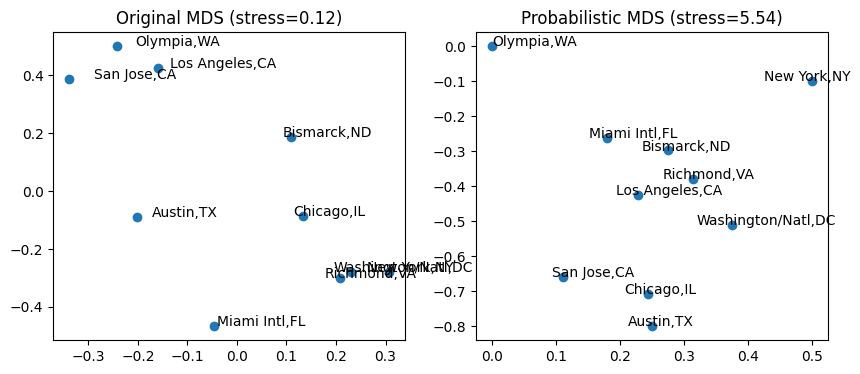
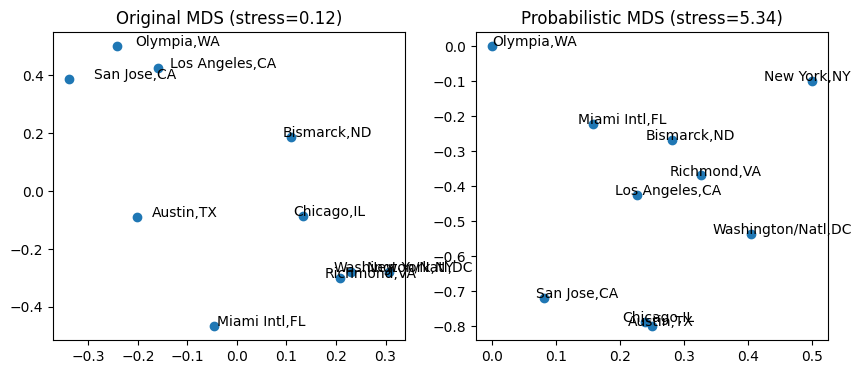
WIP large variance and fixed point

diff --git a/pmds/pmds.py b/pmds/pmds.py
@@ -15,7 +15,7 @@ from .score import stress
 
 
 EPSILON = 1e-7
-SCALE = 1e-5
+SCALE = 1e-6
 
 
 def _ncx2_log_pdf(x, df, nc):
@@ -64,6 +64,8 @@ def pmds(
     lr=1e-3,
     epochs=20,
     debug_D_squareform=None,
+    fixed_points=[],
+    init_mu=None,
 ):
     """Probabilistic MDS according to Hefner model 1958.
 
@@ -86,6 +88,10 @@ def pmds(
         learning rate for standard SGD
     epochs : int, defaults to 20
         Number of epochs
+    fixed_points: list(tuple(int, float, float)), defaults to []
+        list of fixed points (index, x, y)
+    init_mu: ndarray[float], (n_samples, n_components), defaults to None
+        initial position for the embedding
 
     Returns:
     --------
@@ -101,9 +107,19 @@ def pmds(
     print(f"[DEBUG]: using learning rate: {lr} and batch size of {batch_size}")
 
     # init mu and sigma square. Transform unconstrained sigma square `ss_unc` to `ss`.
+    # https://github.com/tensorflow/probability/issues/703
     key_m, key_s = random.split(random.PRNGKey(random_state))
-    mu = random.normal(key_m, (n_samples, n_components))
     ss_unc = random.normal(key_s, (n_samples,))
+    if init_mu is not None and init_mu.shape == (n_samples, n_components):
+        mu = jnp.array(init_mu)
+    else:
+        mu = random.normal(key_m, (n_samples, n_components))
+
+    # fixed points
+    fixed_indices = [p[0] for p in fixed_points]
+    fixed_pos = jnp.array([[p[1], p[2]] for p in fixed_points])
+    mu = jax.ops.index_update(mu, fixed_indices, fixed_pos)
+    ss_unc = jax.ops.index_update(ss_unc, fixed_indices, EPSILON)
 
     # patch pairwise distances and indices of each pairs together
     if isinstance(p_dists[0], float):
@@ -131,7 +147,7 @@ def pmds(
     all_loss = []
     for epoch in range(epochs):
         loss = 0.0
-        # note when run with fixed point, do not shuffle
+        # when using fixed points, we can always shuffle `dists_with_indices`
         for i, batch in enumerate(chunks(dists_with_indices, batch_size, shuffle=True)):
             # unpatch pairwise distances and indices of points in each pair
             dists, pair_indices = list(zip(*batch))
@@ -140,11 +156,14 @@ def pmds(
 
             # get the params for related indices from global `mu` and `ss`
             mu_i, mu_j = mu[i0], mu[i1]
-            ss_i = EPSILON + jax.nn.softplus(SCALE * ss_unc[i0])
-            ss_j = EPSILON + jax.nn.softplus(SCALE * ss_unc[i1])
+            ss_i = jnp.ones(len(i0))
+            # EPSILON + jax.nn.softplus(SCALE * ss_unc[i0])
+            ss_j = jnp.ones(len(i1))
+            # EPSILON + jax.nn.softplus(SCALE * ss_unc[i1])
             assert len(mu_i) <= batch_size
 
             # calculate loss and gradients in each batch
+            # TODO think about d_{ij} / (sigma^2_i + sigma^2_j) with very small sigma
             loss_batch, grads = loss_and_grads_batched(
                 mu_i, mu_j, ss_i, ss_j, jnp.array(dists)
             )
@@ -171,130 +190,12 @@ def pmds(
                 grads_ss * jax.nn.sigmoid(SCALE * ss_unc[related_indices]) * SCALE
             )
             # then, update the unconstrained variable ss_unc
-            ss_unc = jax.ops.index_add(
-                ss_unc, related_indices, -grads_ss_unc / batch_size
-            )
-        loss = float(loss / (i + 1))
-        mds_stress = (
-            stress(debug_D_squareform, mu) if debug_D_squareform is not None else 0.0
-        )
-        all_loss.append(loss)
-
-        mlflow.log_metric("loss", loss)
-        mlflow.log_metric("stress", mds_stress)
-        print(
-            f"[DEBUG] epoch {epoch}, loss: {loss:.2f}, stress: {mds_stress:,.2f}"
-            f" mu in [{float(jnp.min(mu)):.3f}, {float(jnp.max(mu)):.3f}], "
-            f" ss_unc in [{float(jnp.min(ss_unc)):.3f}, {float(jnp.max(ss_unc)):.3f}]"
-        )
-
-    ss = EPSILON + jax.nn.softplus(SCALE * ss_unc)
-    print("[DEBUG] mean ss: ", float(jnp.mean(ss)))
-    mlflow.log_metric("mean_ss", float(jnp.mean(ss)))
-    return mu, ss, all_loss
-
-
-def pmds_with_fixed_points(
-    p_dists,
-    n_samples,
-    n_components=2,
-    batch_size=0,
-    random_state=42,
-    lr=1e-3,
-    epochs=20,
-    debug_D_squareform=None,
-    fixed_points=[],
-):
-    assert n_components in [2, 4]
-    batch_size = batch_size or len(p_dists)
-    print(f"[DEBUG]: using learning rate: {lr} and batch size of {batch_size}")
-
-    # init mu and sigma square. Transform unconstrained sigma square `ss_unc` to `ss`.
-    key_m, key_s = random.split(random.PRNGKey(random_state))
-    mu = random.normal(key_m, (n_samples, n_components))
-    ss_unc = random.normal(key_s, (n_samples,))
-
-    # set fixed points
-    for idx, x, y in fixed_points:
-        mu = jax.ops.index_update(mu, idx, [x, y])
-        ss_unc = jax.ops.index_update(ss_unc, idx, 1e-3)
-
-    # patch pairwise distances and indices of each pairs together
-    if isinstance(p_dists[0], float):
-        all_pairs = list(combinations(range(n_samples), 2))
-        assert len(p_dists) == len(all_pairs)
-        dists_with_indices = list(zip(p_dists, all_pairs))
-    else:
-        dists_with_indices = p_dists
-
-    # function to calculate log pdf of X-square for a single input `d` given the params.
-    def loss_one_pair(mu_i, mu_j, s_i, s_j, d):
-        nc = jnp.sum((mu_i - mu_j) ** 2) / (s_i + s_j)
-        return -_ncx2_log_pdf(x=d, df=n_components, nc=nc)
-
-    # prepare the log pdf function of one sample to run in batch mode
-    loss_and_grads_batched = jax.vmap(
-        # take gradient w.r.t. the 1st, 2nd, 3rd and 4th params
-        jax.jit(jax.value_and_grad(loss_one_pair, argnums=[0, 1, 2, 3])),
-        # parallel for all input params
-        in_axes=(0, 0, 0, 0, 0),
-        # scalar output
-        out_axes=0,
-    )
-
-    all_loss = []
-    for epoch in range(epochs):
-        loss = 0.0
-        # note when run with fixed point, do not shuffle
-        for i, batch in enumerate(
-            chunks(dists_with_indices, batch_size, shuffle=False)
-        ):
-            # unpatch pairwise distances and indices of points in each pair
-            dists, pair_indices = list(zip(*batch))
-            i0, i1 = list(zip(*pair_indices))
-            i0, i1 = list(i0), list(i1)
-
-            # get the params for related indices from global `mu` and `ss`
-            mu_i, mu_j = mu[i0], mu[i1]
-            ss_i = EPSILON + jax.nn.softplus(SCALE * ss_unc[i0])
-            ss_j = EPSILON + jax.nn.softplus(SCALE * ss_unc[i1])
-            assert len(mu_i) <= batch_size
-
-            # calculate loss and gradients in each batch
-            loss_batch, grads = loss_and_grads_batched(
-                mu_i, mu_j, ss_i, ss_j, jnp.array(dists)
-            )
-
-            if jnp.any(jnp.isnan(loss_batch)):
-                raise ValueError(
-                    "NaN encountered in loss value."
-                    "Check if the `nc` params of X-square dist. are non-positive"
-                )
-            loss += jnp.mean(loss_batch)
-
-            # update gradient for the corresponding related indices
-            grads_mu = jnp.concatenate((lr * grads[0], lr * grads[1]), axis=0)
-            grads_ss = jnp.concatenate((lr * grads[2], lr * grads[3]), axis=0)
-            related_indices = i0 + i1
-            assert grads_mu.shape[0] == grads_ss.shape[0] == len(related_indices)
-
-            # update gradient for mu
-            mu = jax.ops.index_add(mu, related_indices, -grads_mu / batch_size)
-
-            # update gradient for constrained variable ss
-            # first, calculate gradient for unconstrained variable ss_unc
-            grads_ss_unc = (
-                grads_ss * jax.nn.sigmoid(SCALE * ss_unc[related_indices]) * SCALE
-            )
-            # then, update the unconstrained variable ss_unc
-            ss_unc = jax.ops.index_add(
-                ss_unc, related_indices, -grads_ss_unc / batch_size
-            )
-
-            # correct pos and gradient for fixe points
-            for idx, x, y in fixed_points:
-                mu = jax.ops.index_update(mu, idx, [x, y])
-                ss_unc = jax.ops.index_update(ss_unc, idx, 1e-3)
+            # ss_unc = jax.ops.index_add(
+            #     ss_unc, related_indices, -grads_ss_unc / batch_size
+            # )
+            # correct gradient for fixed points
+            mu = jax.ops.index_update(mu, fixed_indices, fixed_pos)
+            # ss_unc = jax.ops.index_update(ss_unc, fixed_indices, EPSILON)
 
         loss = float(loss / (i + 1))
         mds_stress = (

diff --git a/run_pmds.py b/run_pmds.py
@@ -6,7 +6,7 @@ import mlflow
 from sklearn.manifold import MDS
 from scipy.spatial.distance import squareform
 
-from pmds.pmds import pmds, pmds_with_fixed_points
+from pmds.pmds import pmds
 from pmds import score, plot, dataset, config
 
 
@@ -28,7 +28,15 @@ def run_pdms(D, N, args, labels=None):
     # Probabilistic MDS uses Squared Euclidean distances.
     D_squareform = squareform(D)
 
-    Z1, Z1_var, losses = pmds_with_fixed_points(
+    # original MDS
+    Z0 = MDS(
+        dissimilarity="precomputed",
+        metric=True,
+        random_state=args.random_state,
+        verbose=1,
+    ).fit_transform(D_squareform)
+
+    Z1, Z1_var, losses = pmds(
         p_dists,
         n_samples=N,
         n_components=args.n_components,
@@ -38,16 +46,9 @@ def run_pdms(D, N, args, labels=None):
         random_state=args.random_state,
         debug_D_squareform=D_squareform,
         fixed_points=args.fixed_points,
+        # init_mu=Z0,
     )
     plot.line(losses, out_name=f"{plot_dir}/loss.png")
-
-    # original MDS
-    Z0 = MDS(
-        dissimilarity="precomputed",
-        metric=True,
-        random_state=args.random_state,
-        verbose=1,
-    ).fit_transform(D_squareform)
 
     # compare stress of 2 embedding
     s0 = score.stress(D_squareform, Z0)

diff --git a/pmds/config.py b/pmds/config.py
@@ -57,8 +57,8 @@ pre_config = {
             n_samples=None,  # 10
             n_components=2,
             batch_size=0,
-            epochs=80,
-            learning_rate=0.2,
+            epochs=20,
+            learning_rate=1,
             random_state=42,
             std=False,
             pca=None,
